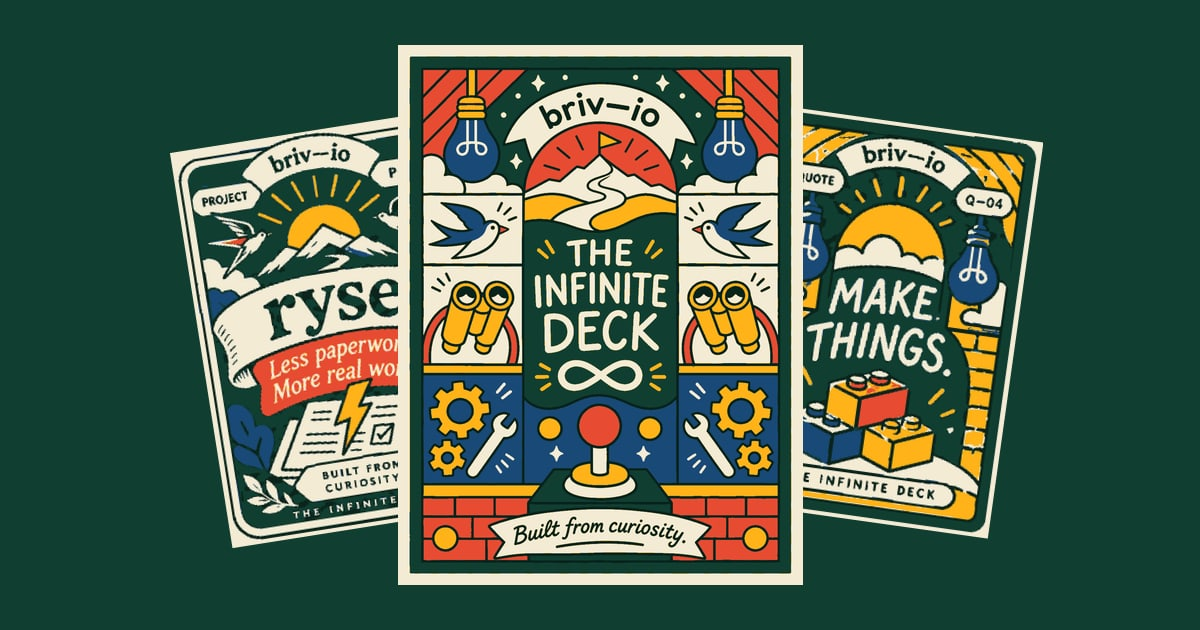
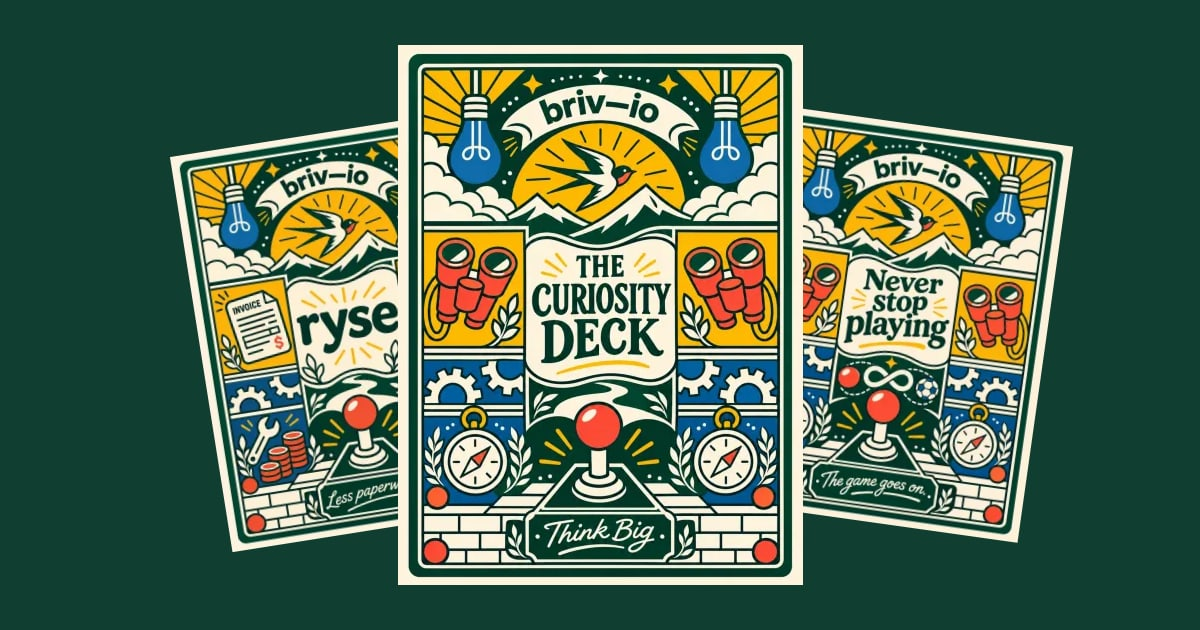
Deck 2.0: The Curiosity Deck mit elf Karten in voller Aufloesung

diff --git a/src/skripte/deck.js b/src/skripte/deck.js
@@ -10,7 +10,7 @@ if (deck) {
   const stand = deck.querySelector('[data-stand]');
   const ruhig = matchMedia('(prefers-reduced-motion: reduce)');
   const anzahl = karten.length;
-  const FORMAT = 341 / 493;
+  const FORMAT = 1086 / 1448;
   // So viel Scrollweg, gemessen in Schirmhöhen, braucht eine Karte.
   const WEG = 0.7;
 
@@ -31,7 +31,7 @@ if (deck) {
     breite = tisch.clientWidth;
     hoehe = tisch.clientHeight;
     // Die Karte in der Mitte: so gross wie der Schirm es zulässt.
-    const gross = Math.min(hoehe * 0.72, (breite * 0.8) / FORMAT, 640);
+    const gross = Math.min(hoehe * 0.76, (breite * 0.82) / FORMAT, 780);
     deck.style.setProperty('--karte-h', `${gross}px`);
     deck.style.height = `${hoehe * (1 + anzahl * WEG)}px`;
 

diff --git a/src/stile/deck.css b/src/stile/deck.css
@@ -24,7 +24,7 @@
   }
   .karte img {
     width: 100%;
-    border-radius: 6%/4.2%;
+    border-radius: 5.5%/4.1%;
     box-shadow: 0 0.5rem 1.5rem rgb(11 37 28 / 0.45);
     user-select: none;
     -webkit-user-drag: none;

diff --git a/docs/entscheide.md b/docs/entscheide.md
@@ -28,3 +28,4 @@ Regel mit Begründung. Neue Einträge unten anfügen, mit Datum.
 19. **Das Zeichen steht im Kopf.** Die Vorlage mit dunklem Grund wird mit `node werkzeuge/zeichen.mjs` freigestellt: Der Grund und der fast schwarze Umriss werden durchsichtig, die Farben bleiben. Die gesetzte Wortmarke und der Claim im Kopf entfallen. Punkt 9 ist damit überholt; eine gezeichnete Fassung als SVG bleibt für grosse Formate wünschenswert.
 20. **Kein Fuss ohne Inhalt.** Die Anbieterzeile entfällt. Der Fuss erscheint erst, wenn eine Mail eingetragen ist oder die Rechtsseiten eingeschaltet sind.
 21. **Punktraster auf dem Tisch.** Ein feines Raster heller Punkte liegt über dem Grün, wie auf einer Spielmatte.
+22. **Deck 2.0: The Curiosity Deck.** Elf Karten in einheitlichem Format (1086 auf 1448): eine Titelkarte, sieben Projekte, drei Statements. Sie ersetzen die Studien der ersten Fassung; das Deck heisst neu «The Curiosity Deck». Im Repository liegen die Karten als WebP in voller Grösse, die Vorlagen bleiben lokal. Punkt 18 ist damit erledigt.

diff --git a/docs/offene-entscheide.md b/docs/offene-entscheide.md
@@ -15,7 +15,7 @@ Was vor dem Livegang entschieden oder geliefert sein muss. Erledigtes wandert na
 6. **Zeichen als gezeichnete Fassung (SVG) mit freiem Grund,** samt der Raute über dem i. Dann wandert es in den Kopf, ins Favicon und auf helle Flächen.
 7. **Kapitelbilder in voller Grösse,** quer für grosse Schirme, hoch für Handys. Für Sie&Er Dessous, Apérozauber, a—real und Versed Academy fehlt das Motiv ganz.
 
-8a. **Karten in voller Auflösung,** mindestens 840 Pixel breit, alle im selben Format. Dann auch die Bonuskarten aufnehmen.
+8a. **Weitere Statement-Karten** im Format von Deck 2.0, falls das Deck wachsen soll (bisher drei).
 8b. **Karten und Projekte verbinden:** Soll eine Projektkarte antippbar sein und zum Projekt führen?
 
 ## Recht und Betrieb
